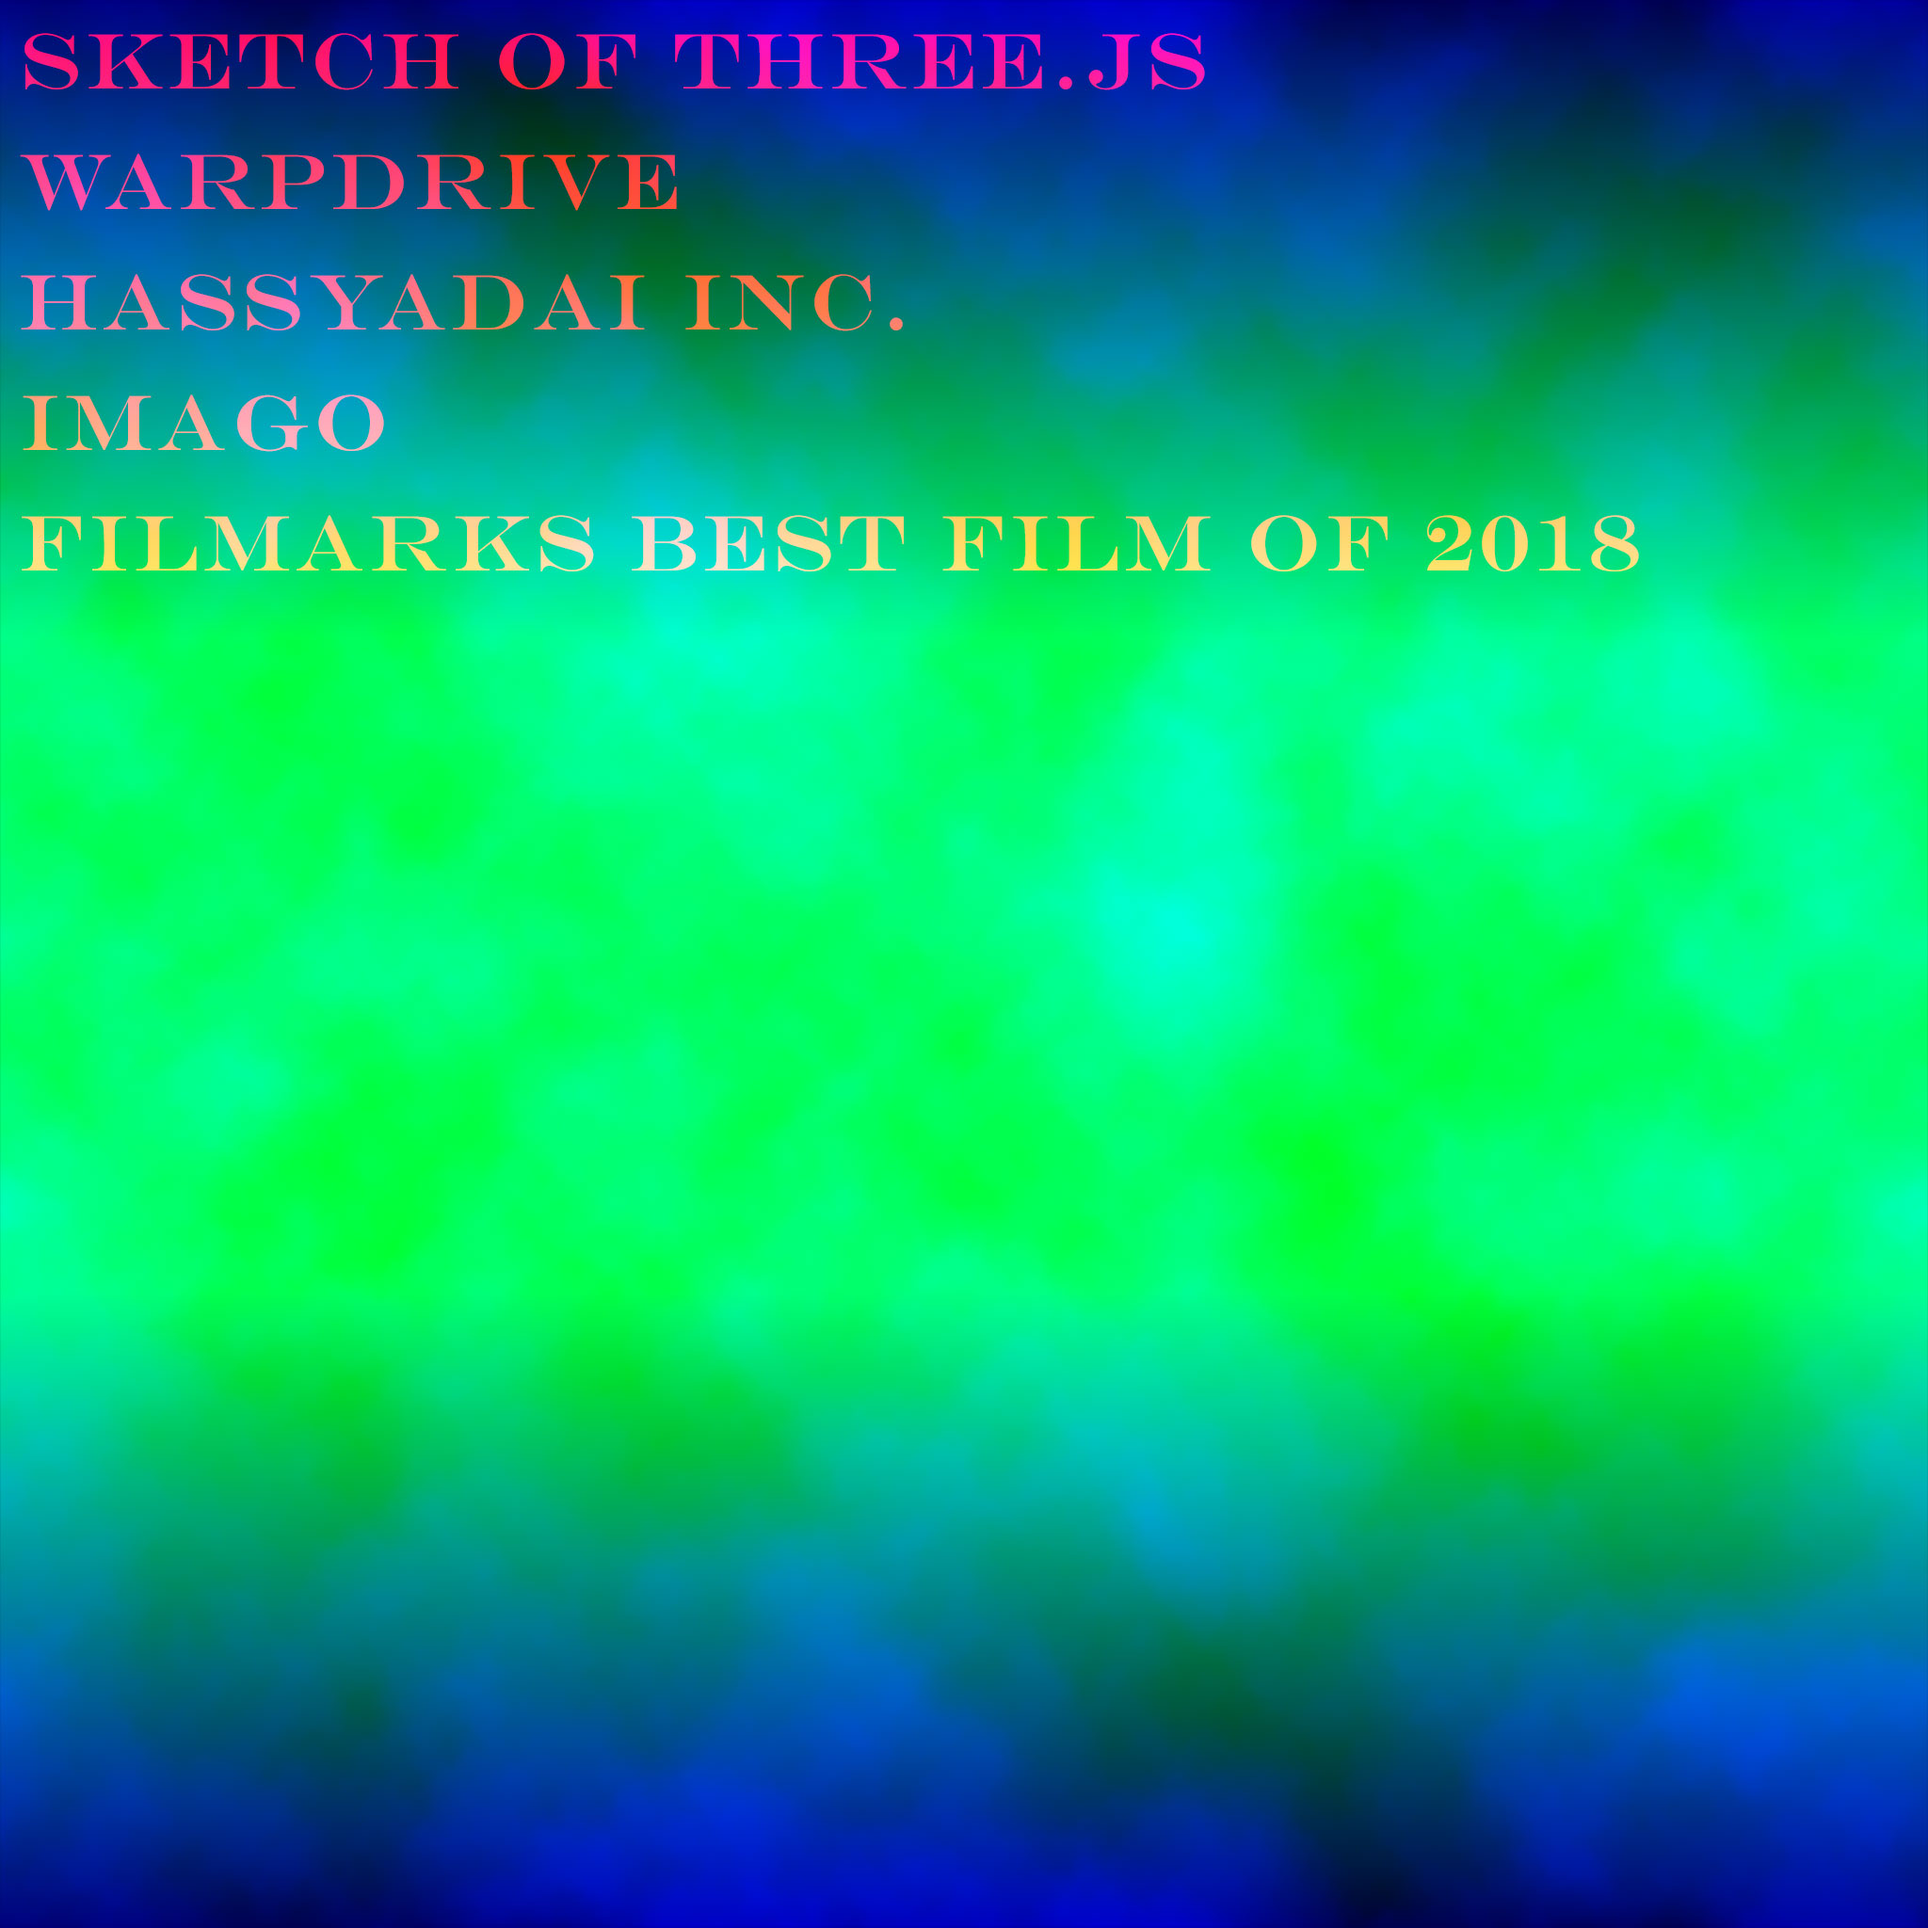
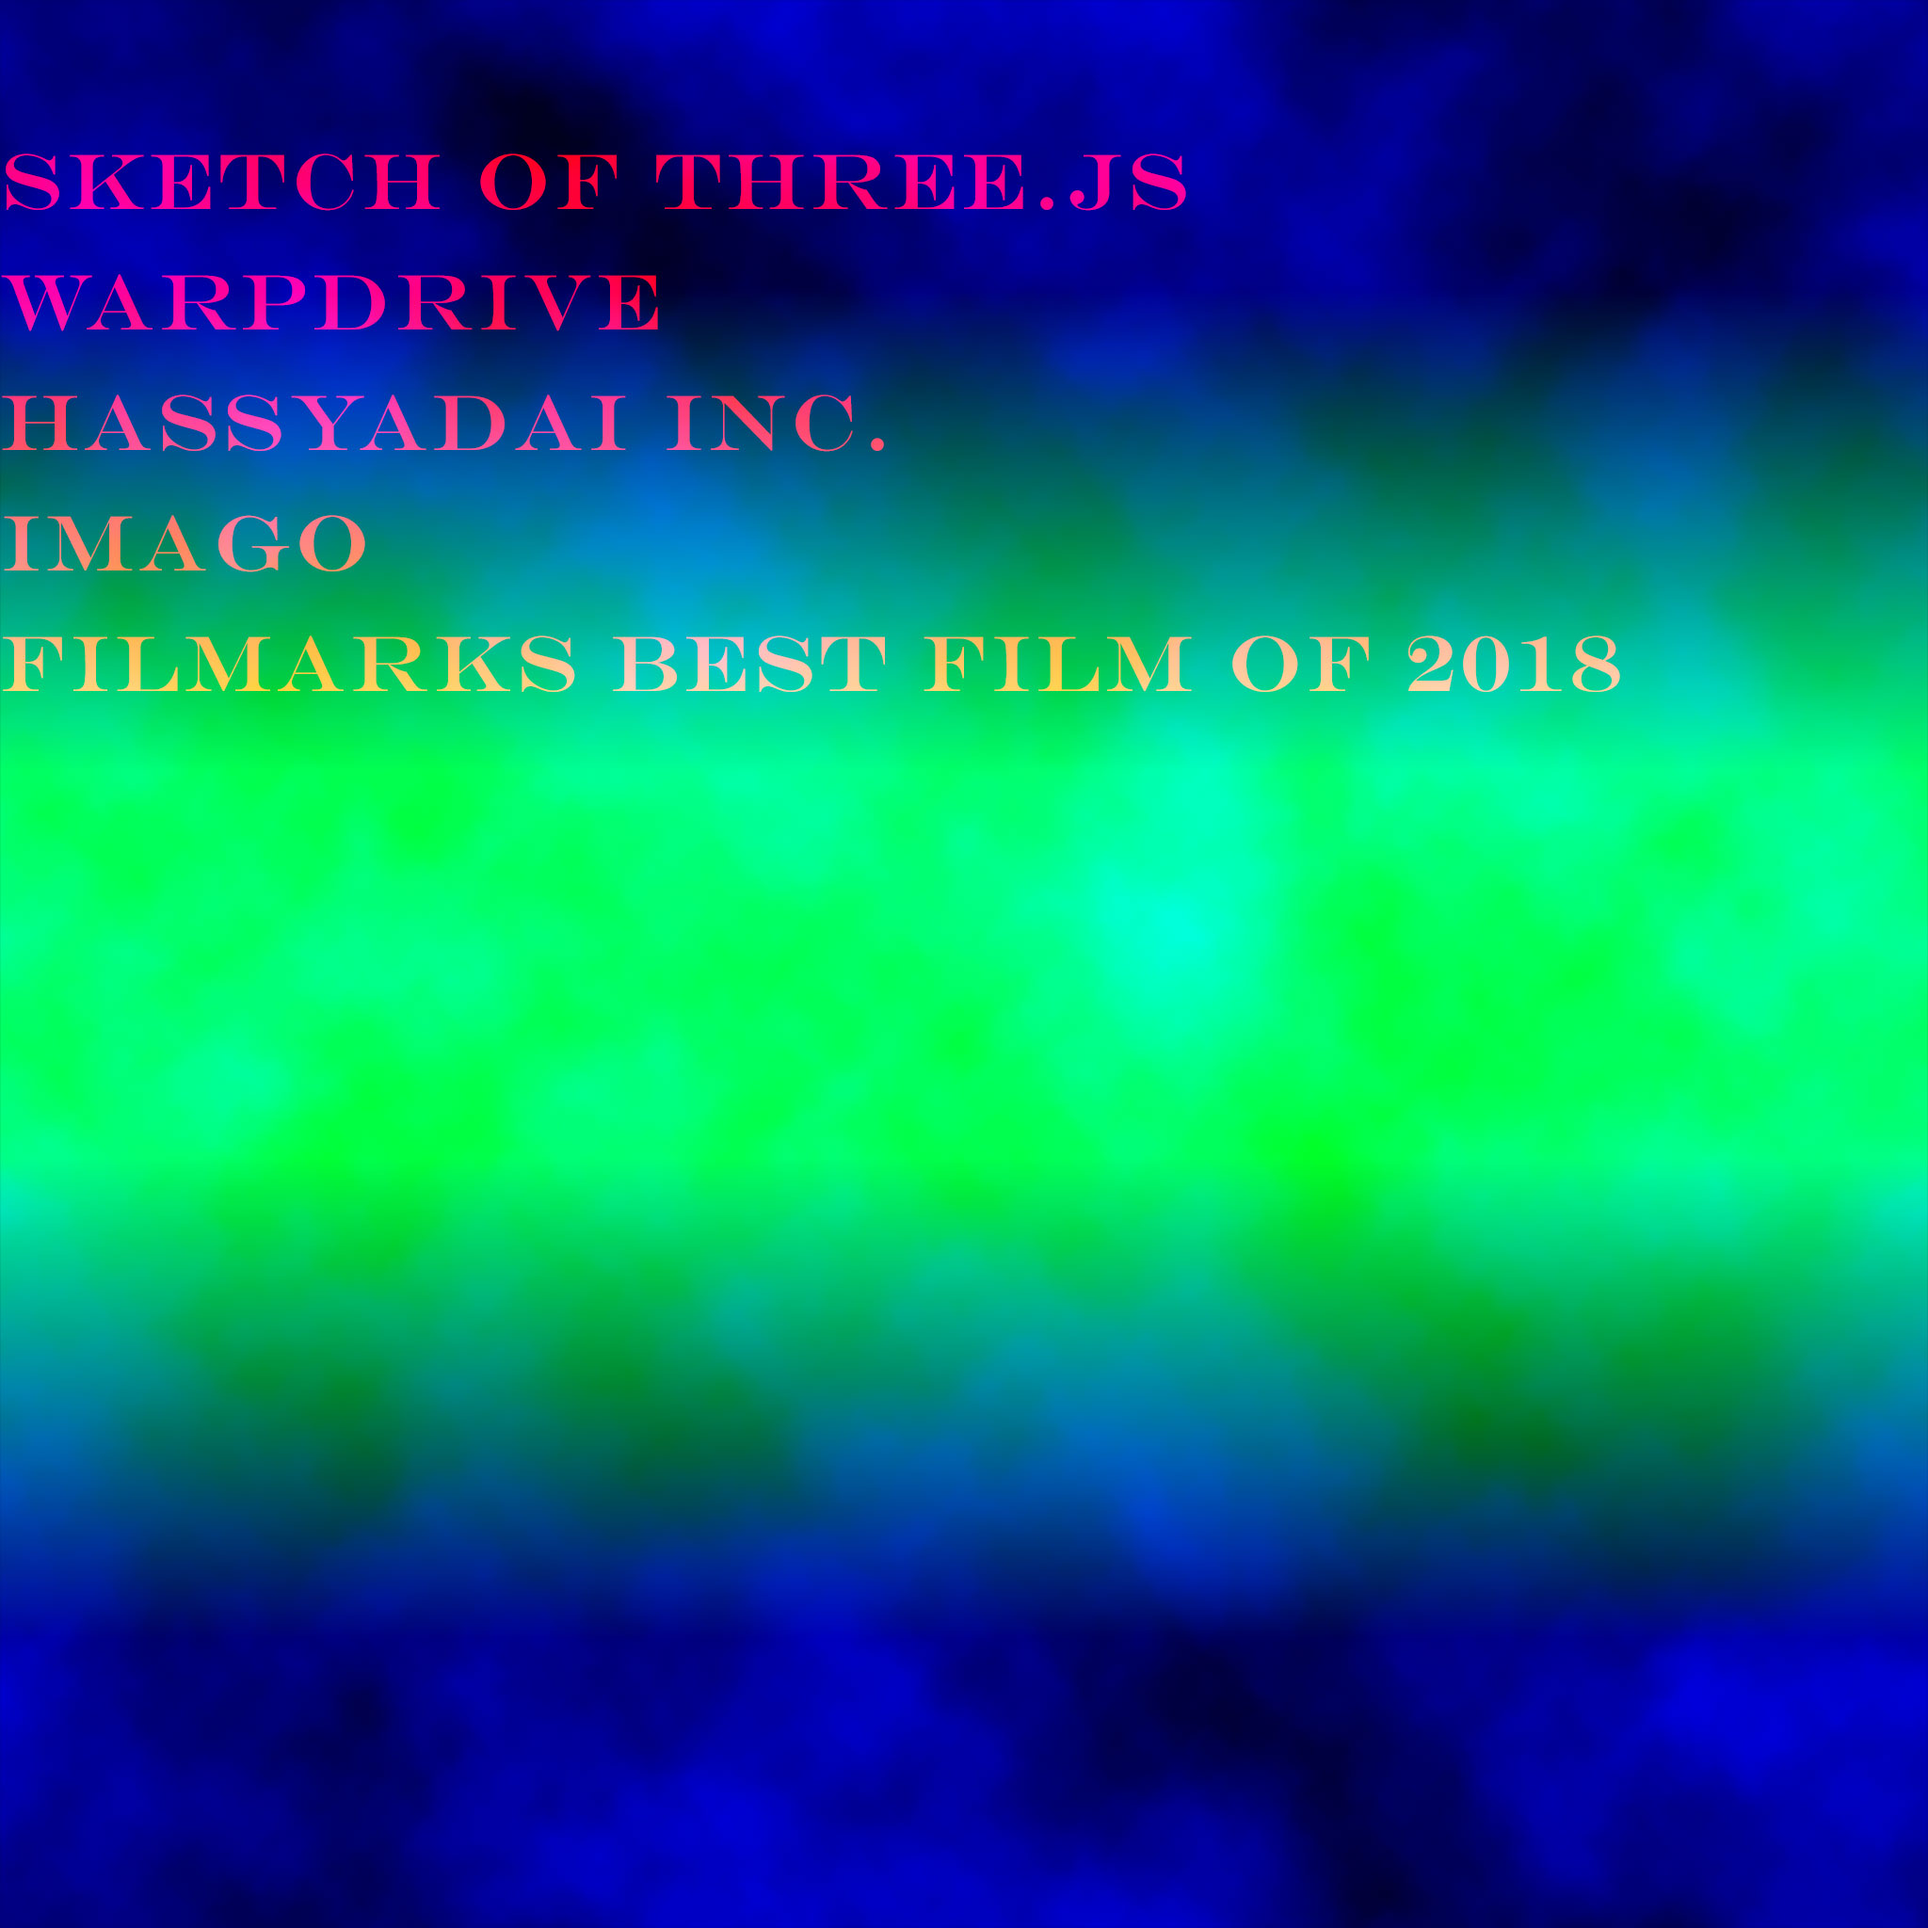
added the change method to the Works Text object.

diff --git a/src/webgl/WorksText.js b/src/webgl/WorksText.js
@@ -5,7 +5,10 @@ import MathEx from 'js-util/MathEx';
 import vs from '@/webgl/glsl/WorksText.vs';
 import fs from '@/webgl/glsl/WorksText.fs';
 
+import WORKS from '@/const/WORKS';
+
 const WIDTH = 90;
+const DURATION_TRANSITION = 1.6;
 
 export default class WorksText extends THREE.Mesh {
   constructor() {
@@ -27,17 +30,25 @@ export default class WorksText extends THREE.Mesh {
           type: 'f',
           value: 0
         },
+        prevMaxUvX: {
+          type: 'f',
+          value: 0
+        },
         nextId: {
           type: 'f',
-          value: 1
+          value: 0
+        },
+        nextMaxUvX: {
+          type: 'f',
+          value: 0
         },
         maxId: {
           type: 'f',
           value: 16
         },
-        maxUvX: {
+        alphaChanging: {
           type: 'f',
-          value: 650 / 1024
+          value: 0
         }
       },
       vertexShader: vs,
@@ -49,20 +60,40 @@ export default class WorksText extends THREE.Mesh {
     super(geometry, material);
     this.name = 'WorksText';
     this.time = 0;
+    this.timeTransition = 0;
     this.isActive = false;
+    this.isChanging = false;
 
-    this.position.set(0, 0, 0);
+    this.visible = false;
   }
   start(tex) {
     this.isActive = true;
     this.material.uniforms.tex.value = tex;
   }
-  show() {
+  change(id) {
+    const { prevId, prevMaxUvX, nextId, nextMaxUvX } = this.material.uniforms;
+    prevId.value = nextId.value;
+    prevMaxUvX.value = nextMaxUvX.value;
+    nextId.value = id;
+    nextMaxUvX.value = (id > 0) ? (WORKS[id - 1].textWidth + 40) / 2048 : 0;
+    this.timeTransition = 0;
+    this.isChanging = true;
+    if (id > 0) this.visible = true;
   }
-  hide() {
-  }
-  update(time) {
+  update(t) {
+    const { time, alphaChanging, nextId } = this.material.uniforms;
+
     if (this.isActive === false) return;
-    this.material.uniforms.time.value += time;
+    time.value += t;
+
+    // run the animation of changing text.
+    if (this.isChanging) {
+      this.timeTransition += t;
+      alphaChanging.value = easeInOutCirc(MathEx.clamp(this.timeTransition / DURATION_TRANSITION, 0.0, 1.0));
+      if (this.timeTransition >= DURATION_TRANSITION) {
+        this.isChanging = false;
+        if (nextId.value === 0) this.visible = false;
+      }
+    }
   }
 }

diff --git a/src/const/WORKS.js b/src/const/WORKS.js
@@ -5,6 +5,7 @@ export default [
     description: 'Interactive sketches made with three.js. I start to create the sketches from 2015 and continue even now.',
     credit: 'Developer : Yoichi Kobayashi',
     href: 'https://ykob.github.io/sketch-threejs/',
+    textWidth: 1260
   },
   {
     key: 'warpdrive',
@@ -12,6 +13,7 @@ export default [
     description: 'It is the Chrome Extension, a data visualization of a user\'s active history on the browser. I was responsible for one of the contents named REQUEST VIEWER. I devised how to mix 2D and 3D user interfaces here.',
     credit: 'Client : KDDI CORPORATION, NICT\nAgency : THE STRIPPERS Co.\nDeveloper : Yoichi Kobayashi',
     href: 'https://warpdrive-project.jp/',
+    textWidth: 700
   },
   {
     key: 'hassyadai',
@@ -19,6 +21,7 @@ export default [
     description: 'I created a website of the temp agency in Japan made with various WebGL effects. Also I got CSSDA WOTD for the first time by making this site.',
     credit: 'Client : HASSYADAI Inc.\nAgency : BEES/HONEY INC\nDeveloper : Yoichi Kobayashi',
     href: 'https://hassyadai.com',
+    textWidth: 940
   },
   {
     key: 'imago',
@@ -26,6 +29,7 @@ export default [
     description: 'The work of the paint artist Hiroshi Yoshida. I expressed it as a 3D world on the web.',
     credit: 'Client : Hiroshi Yoshida\nDeveloper : Yoichi Kobayashi',
     href: 'http://hiroshi-yoshida.noor.jp/imago/',
+    textWidth: 390
   },
   {
     key: 'best-film-2018',
@@ -33,5 +37,6 @@ export default [
     description: 'A special site launched at the end of the year of 2018 by Japanese film review service Filmarks.\n* This site is already closed.',
     credit: 'Client : TSUMIKI INC.\nDeveloper : Yoichi Kobayashi',
     href: 'https://thefwa.com/cases/filmarks-best-film-of-2018-p2',
+    textWidth: 1720
   },
 ]

diff --git a/src/webgl/index.js b/src/webgl/index.js
@@ -169,6 +169,7 @@ export default class WebGLContent {
   }
   showWorksImage(index, direction) {
     image.change(index, direction);
+    worksText.change(index);
   }
   update(mouse) {
     // When the clock is stopped, it stops the all rendering too.
